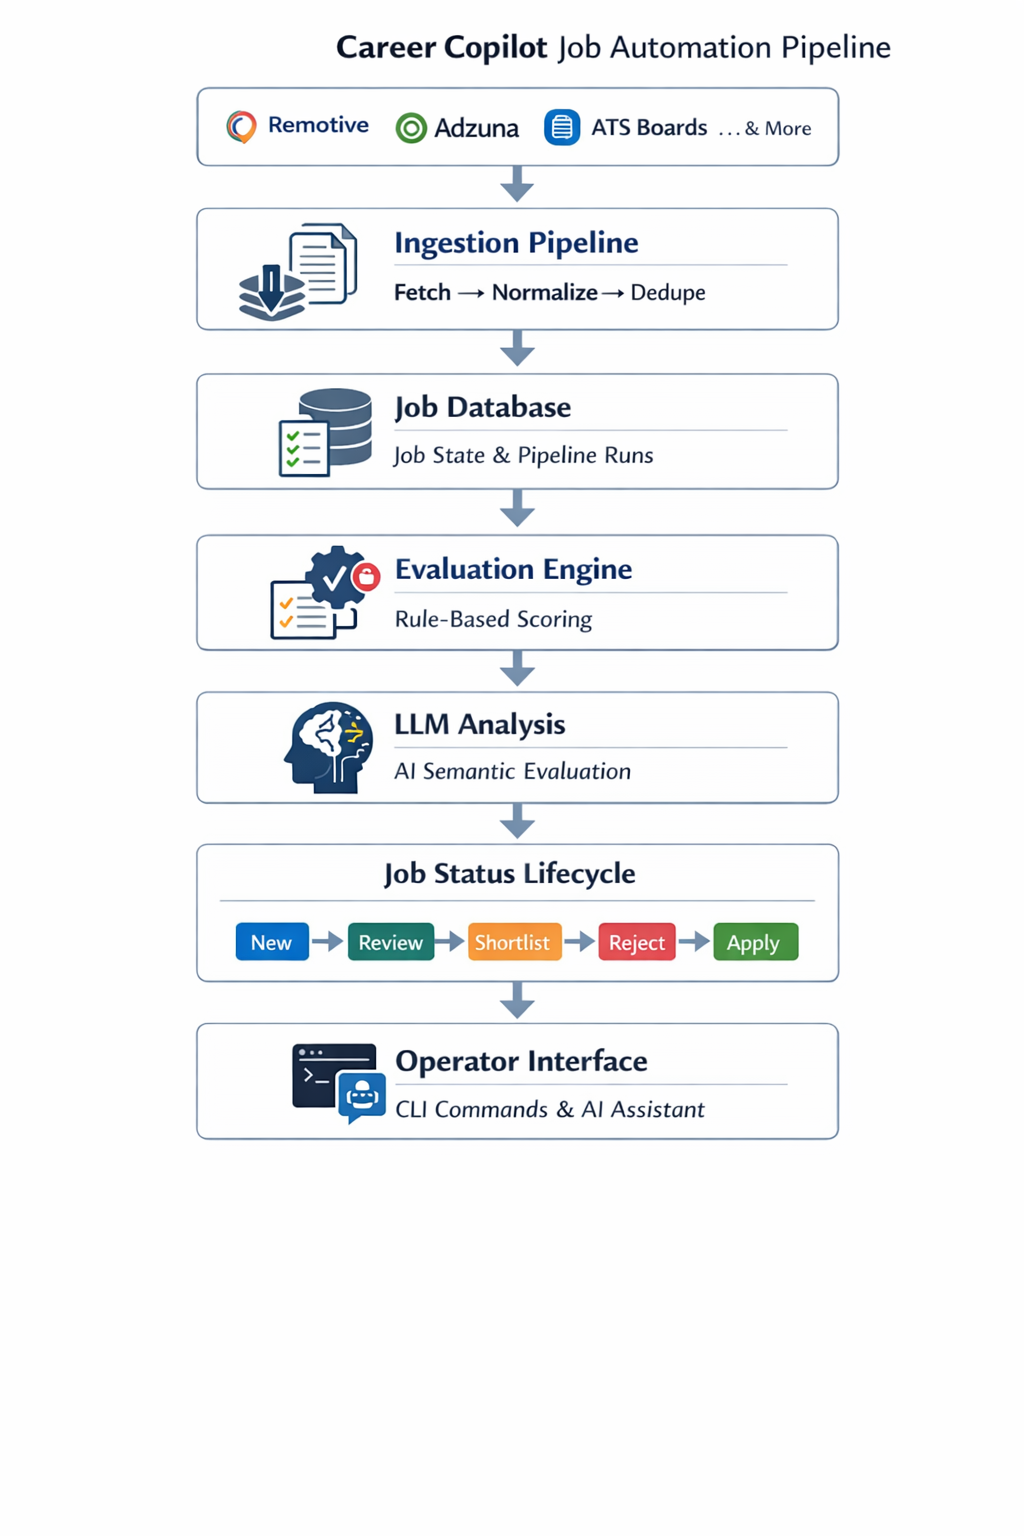
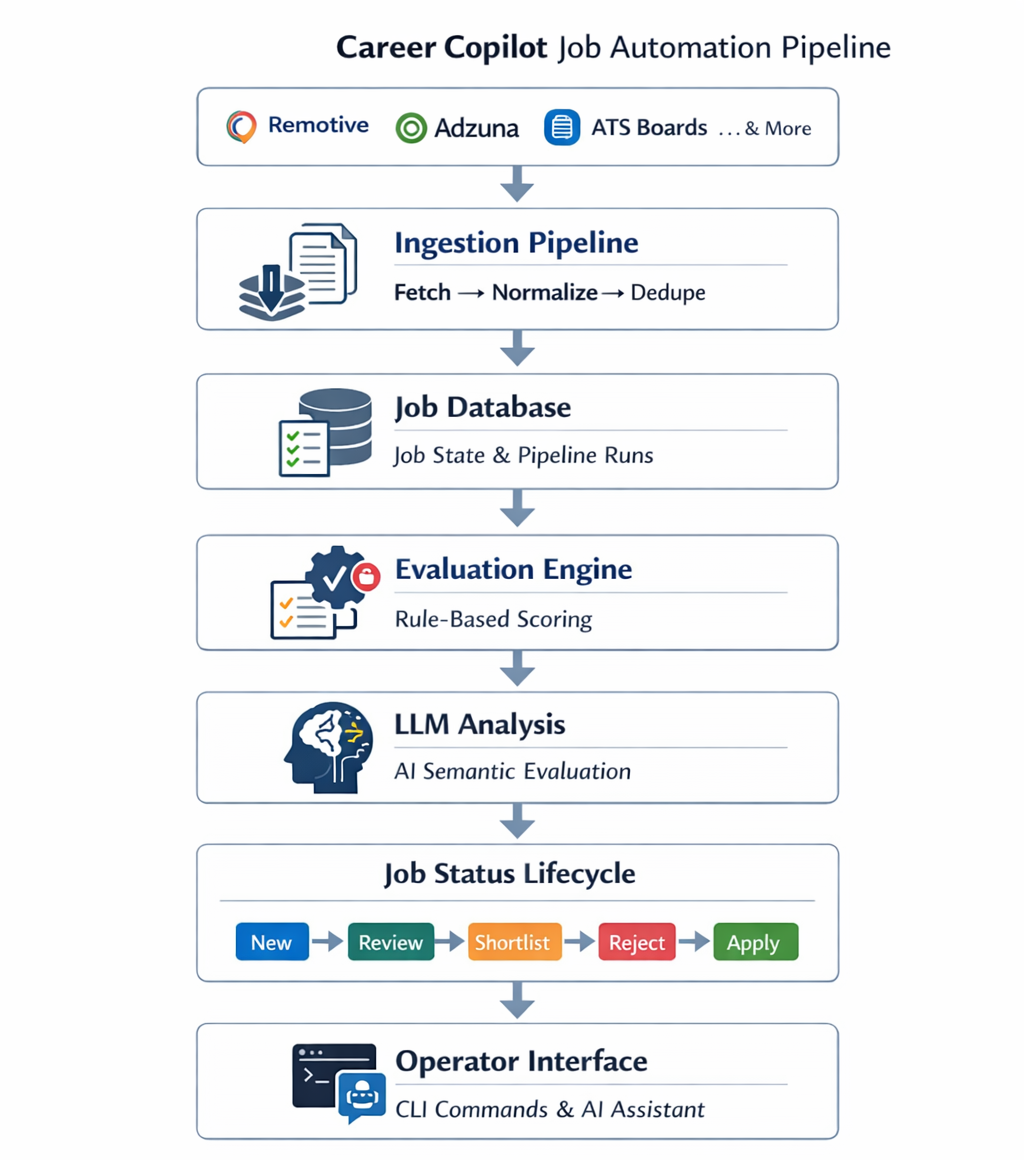
Crop system overview diagram and add caption
Removed large white space at bottom of career-copilot-system-overview.png
(1024×1536 → 1024×1160). Added a one-line caption under the diagram in
README.md describing the pipeline flow.

diff --git a/README.md b/README.md
@@ -22,6 +22,8 @@ The goal is not to automate applying. It is to eliminate the mechanical work tha
 
 ![Career Copilot System Overview](docs/career-copilot-system-overview.png)
 
+The Career Copilot pipeline discovers jobs from multiple sources, stores them in a local database, evaluates fit using deterministic rules and LLM reasoning, and exposes the results through a CLI workflow and natural-language assistant.
+
 ---
 
 ## Key Features
